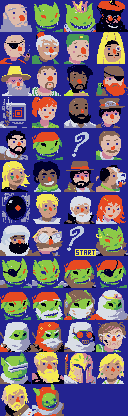
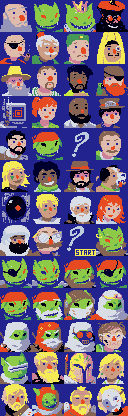
sylph conclave quest

Changed region(s): [[0.5, 0.9062, 1.0, 1.0]]

diff --git a/source/skyland/rooms/particleLance.cpp b/source/skyland/rooms/particleLance.cpp
@@ -75,7 +75,9 @@ void ParticleLance::update(Time delta)
 
     if (parent() == APP.opponent_island()) {
         // Don't allow opponents to build this block.
-        apply_damage(9999);
+        if (not APP.opponent().is_friendly()) {
+            apply_damage(9999);
+        }
     }
 
     if (active_) {
@@ -100,14 +102,16 @@ void ParticleLance::finalize()
 {
     Room::finalize();
 
-    ExploSpawner::create(center());
-    for (int i = 0; i < 3; ++i) {
-        if (auto e =
+    if (health() == 0) {
+        ExploSpawner::create(center());
+        for (int i = 0; i < 3; ++i) {
+            if (auto e =
                 alloc_entity<ExploTrail>(center(),
                                          rng::choice<360>(rng::utility_state),
                                          1.25_fixed,
                                          seconds(2))) {
-            APP.effects().push(std::move(e));
+                APP.effects().push(std::move(e));
+            }
         }
     }
 

diff --git a/source/skyland/rooms/deflector.cpp b/source/skyland/rooms/deflector.cpp
@@ -62,7 +62,9 @@ void Deflector::update(Time delta)
         if (active_timer_ < activate_time - ripple_offset) {
             if (active_timer_ + delta >= activate_time - ripple_offset) {
                 phase_ripple(visual_center());
-                PLATFORM.speaker().play_sound("deflector.raw", 0);
+                if (not PLATFORM.speaker().is_sound_playing("deflector.raw")) {
+                    PLATFORM.speaker().play_sound("deflector.raw", 0);
+                }
             }
         }
         active_timer_ += delta;

diff --git a/source/data/character_art.h b/source/data/character_art.h
@@ -9,7 +9,7 @@
 //	+ 832 tiles Metatiled by 4x4 not compressed
 //	Total size: 32 + 26624 = 26656
 //
-//	Time-stamp: 2025-12-03, 16:51:07
+//	Time-stamp: 2025-12-04, 13:08:25
 //	Exported by Cearn's GBA Image Transmogrifier, v0.9.2
 //	( http://www.coranac.com/projects/#grit )
 //

diff --git a/source/skyland/scene/crewStatsScene.cpp b/source/skyland/scene/crewStatsScene.cpp
@@ -252,7 +252,7 @@ static constexpr u8 goblin_icons[] =
 
 
 
-static constexpr u8 sylph_icons[] = {48, 49, 21, 26, 46, 47};
+static constexpr u8 sylph_icons[] = {48, 49, 21, 26, 46, 47, 51};
 
 
 
